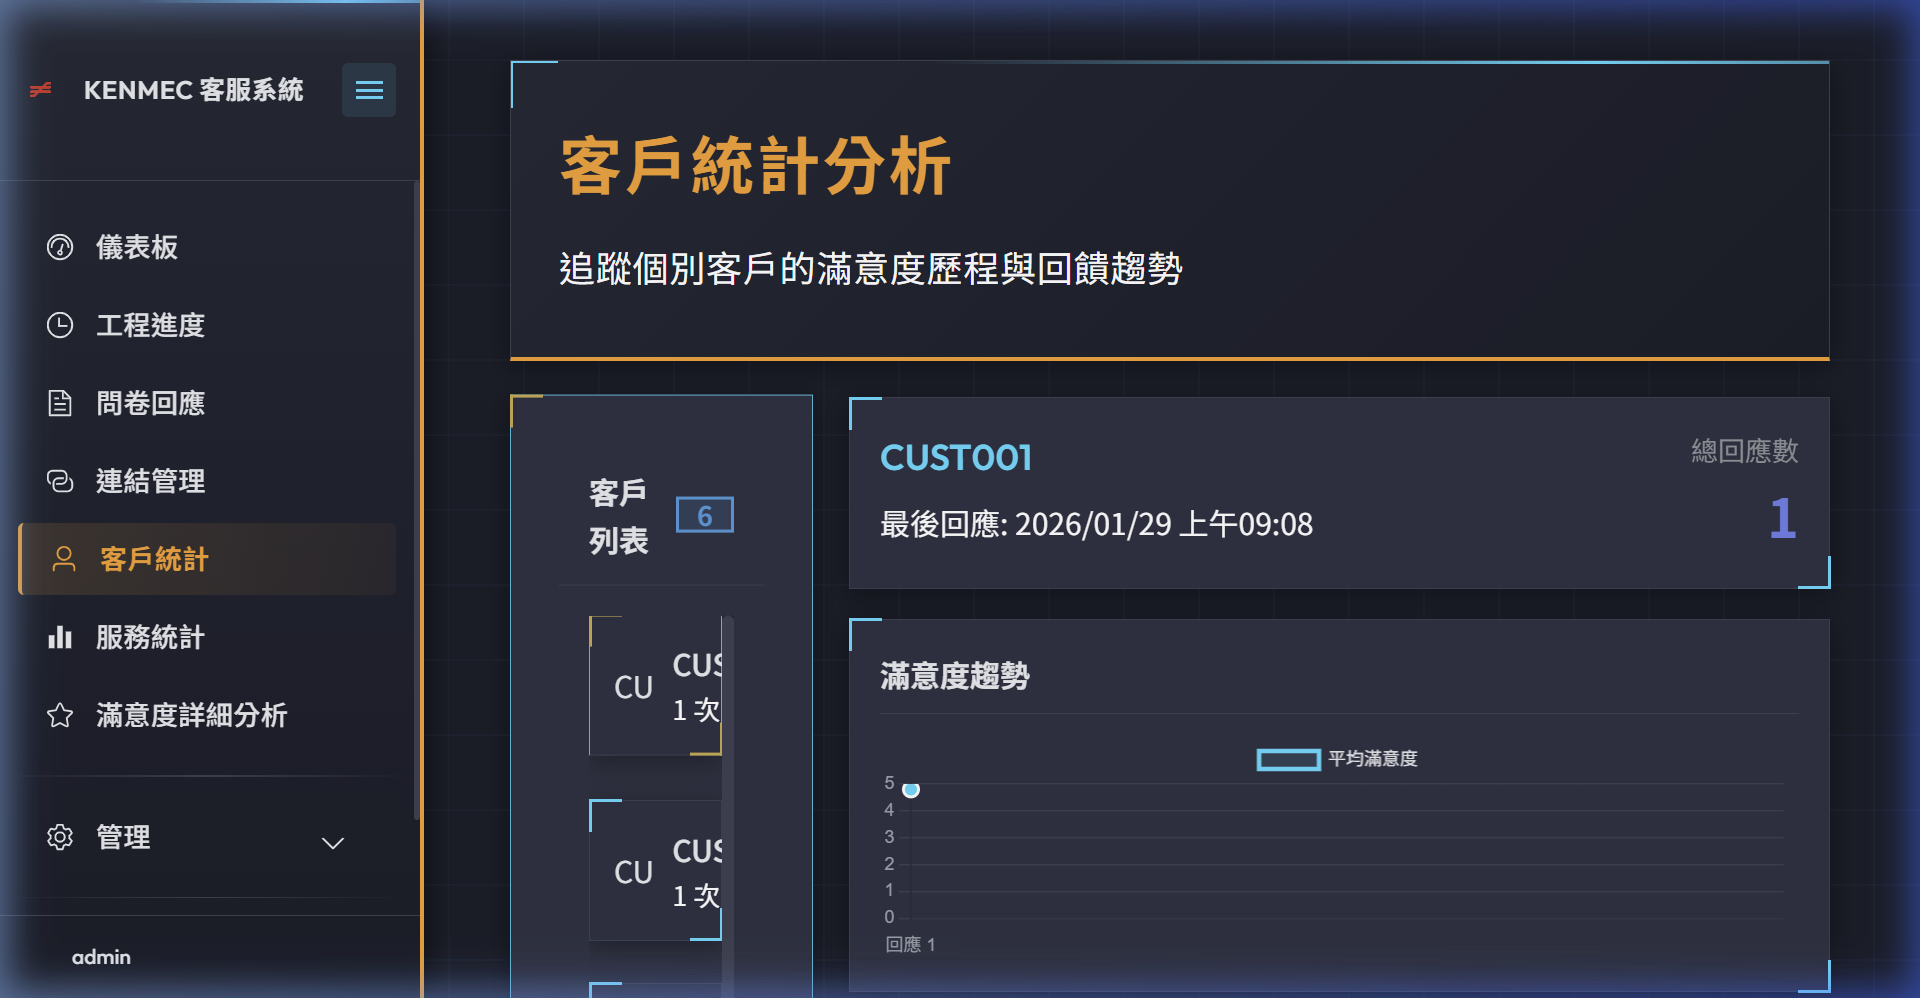
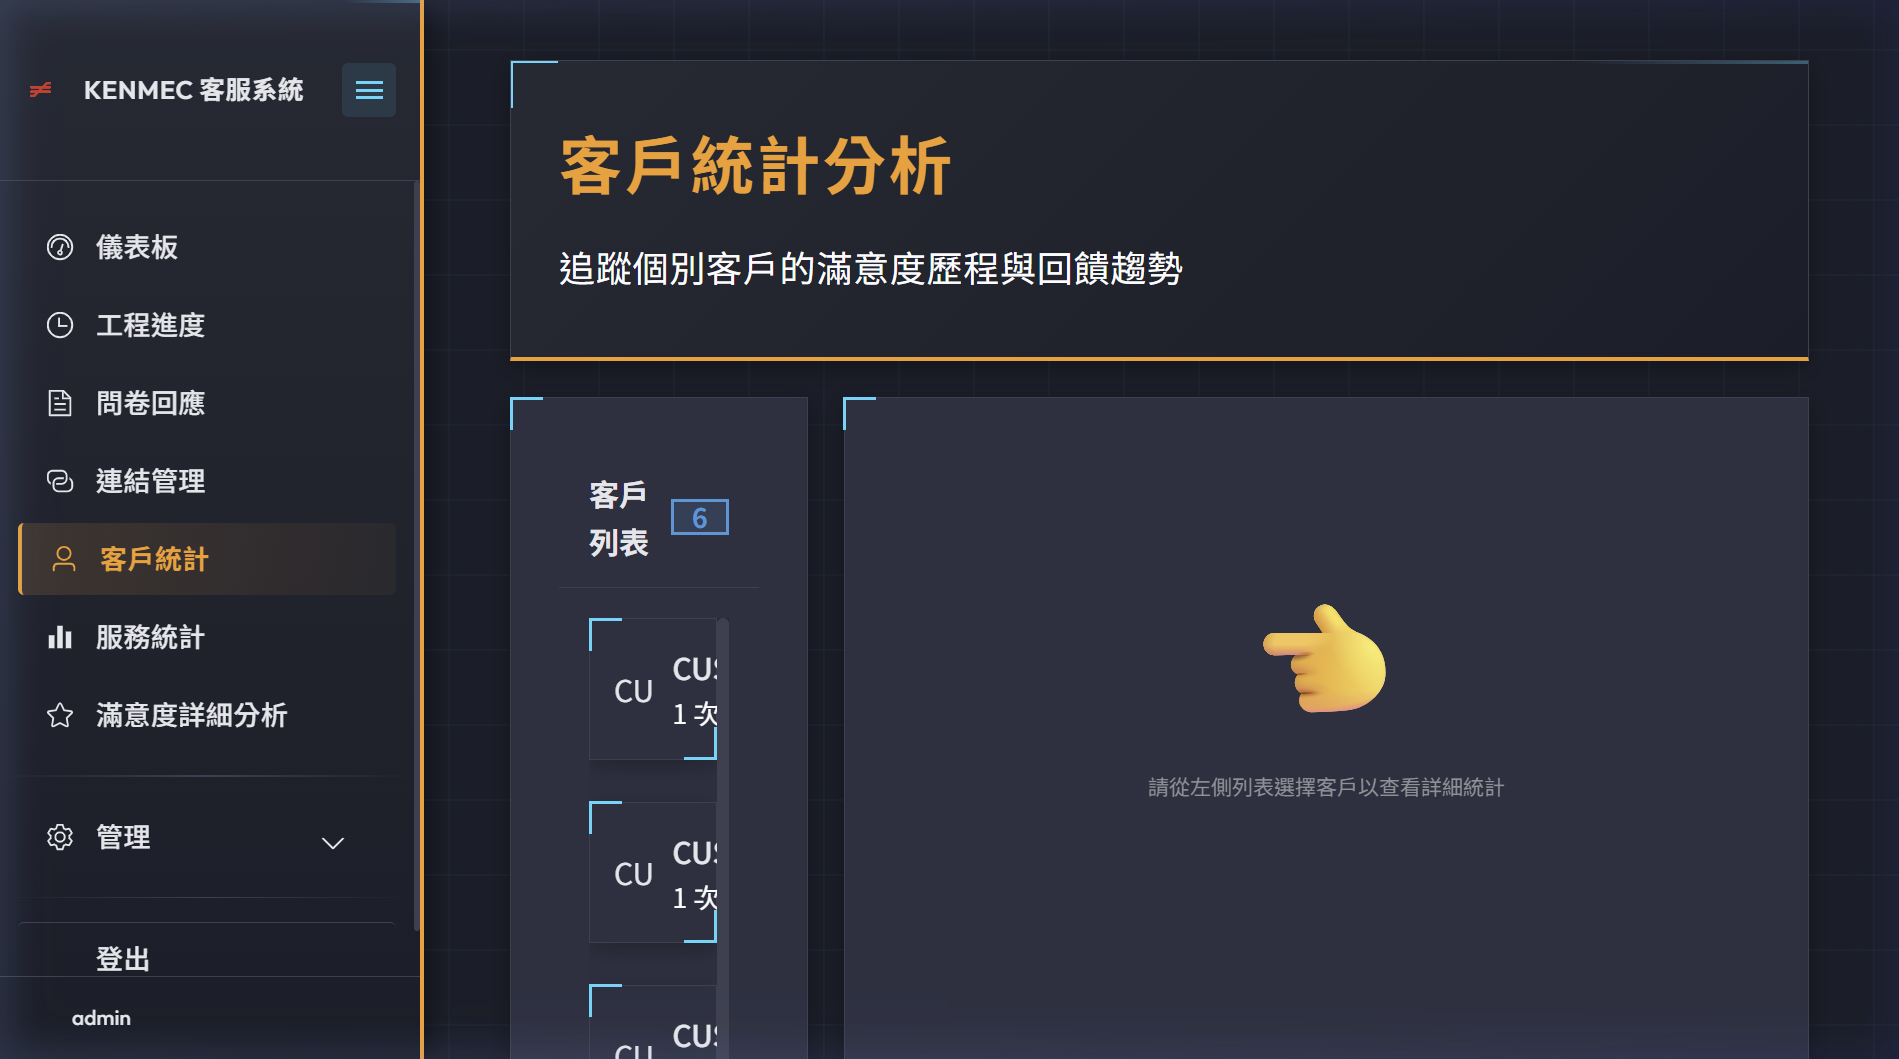
work update

diff --git a/index.html b/index.html
@@ -441,7 +441,7 @@
 					<!-- KM_CSS Project Card -->
 					<a href="#kmcss" class="project-card fade-in">
 						<div class="project-image">
-							<img src="images/kmcss-preview.png" alt="KM_CSS" />
+							<img src="images/kmcss-dashboard.png" alt="KM_CSS" />
 						</div>
 						<div class="project-info">
 							<h3 data-i18n="work.kmcss.title">KM_CSS</h3>
@@ -584,7 +584,7 @@
 			<article id="kmcss">
 				<h2 class="major" data-i18n="kmcss.title">KM_CSS</h2>
 
-				<span class="image main"><img src="images/kmcss-preview.png" alt="KM_CSS System" /></span>
+				<span class="image main"><img src="images/kmcss-dashboard.png" alt="KM_CSS System" /></span>
 
 				<h3 data-i18n="kmcss.subtitle">Customer Satisfaction Survey &amp; Service Management System</h3>
 
@@ -634,7 +634,7 @@
 				<h4 data-i18n="kmcss.screenshots">Screenshots</h4>
 				<div class="gallery-grid">
 					<div class="gallery-item" onclick="openLightbox(this.querySelector('img').src)">
-						<img src="images/kmcss-preview.png" alt="Admin Dashboard" />
+						<img src="images/kmcss-dashboard.png" alt="Admin Dashboard" />
 						<p data-i18n="kmcss.gallery.dashboard">Admin Dashboard</p>
 					</div>
 					<div class="gallery-item" onclick="openLightbox(this.querySelector('img').src)">
@@ -646,8 +646,16 @@
 						<p data-i18n="kmcss.gallery.customers">Customer Statistics</p>
 					</div>
 					<div class="gallery-item" onclick="openLightbox(this.querySelector('img').src)">
-						<img src="images/kmcss-survey.png" alt="Survey Responses" />
-						<p data-i18n="kmcss.gallery.survey">Survey Responses</p>
+						<img src="images/kmcss-satisfaction.png" alt="Satisfaction Analysis" />
+						<p data-i18n="kmcss.gallery.satisfaction">Satisfaction Analysis</p>
+					</div>
+					<div class="gallery-item" onclick="openLightbox(this.querySelector('img').src)">
+						<img src="images/kmcss-service-stats.png" alt="Service Statistics" />
+						<p data-i18n="kmcss.gallery.service">Service Statistics</p>
+					</div>
+					<div class="gallery-item" onclick="openLightbox(this.querySelector('img').src)">
+						<img src="images/kmcss-login.png" alt="Admin Login" />
+						<p data-i18n="kmcss.gallery.login">Admin Login</p>
 					</div>
 				</div>
 

diff --git a/assets/js/lang.js b/assets/js/lang.js
@@ -78,7 +78,9 @@
 			'kmcss.gallery.dashboard': 'Admin Dashboard',
 			'kmcss.gallery.engineering': 'Engineering Progress',
 			'kmcss.gallery.customers': 'Customer Statistics',
-			'kmcss.gallery.survey': 'Survey Responses',
+			'kmcss.gallery.satisfaction': 'Satisfaction Analysis',
+			'kmcss.gallery.service': 'Service Statistics',
+			'kmcss.gallery.login': 'Admin Login',
 			'kmcss.back': '← Back to Work',
 			'about.heading': 'About',
 			'about.skills.title': 'Skills',
@@ -198,7 +200,9 @@
 			'kmcss.gallery.dashboard': '管理儀表板',
 			'kmcss.gallery.engineering': '工程進度',
 			'kmcss.gallery.customers': '客戶統計分析',
-			'kmcss.gallery.survey': '問卷回應',
+			'kmcss.gallery.satisfaction': '滿意度詳細分析',
+			'kmcss.gallery.service': '服務統計',
+			'kmcss.gallery.login': '管理員登入',
 			'kmcss.back': '← 返回作品集',
 			'about.heading': '關於',
 			'about.skills.title': '技能',
